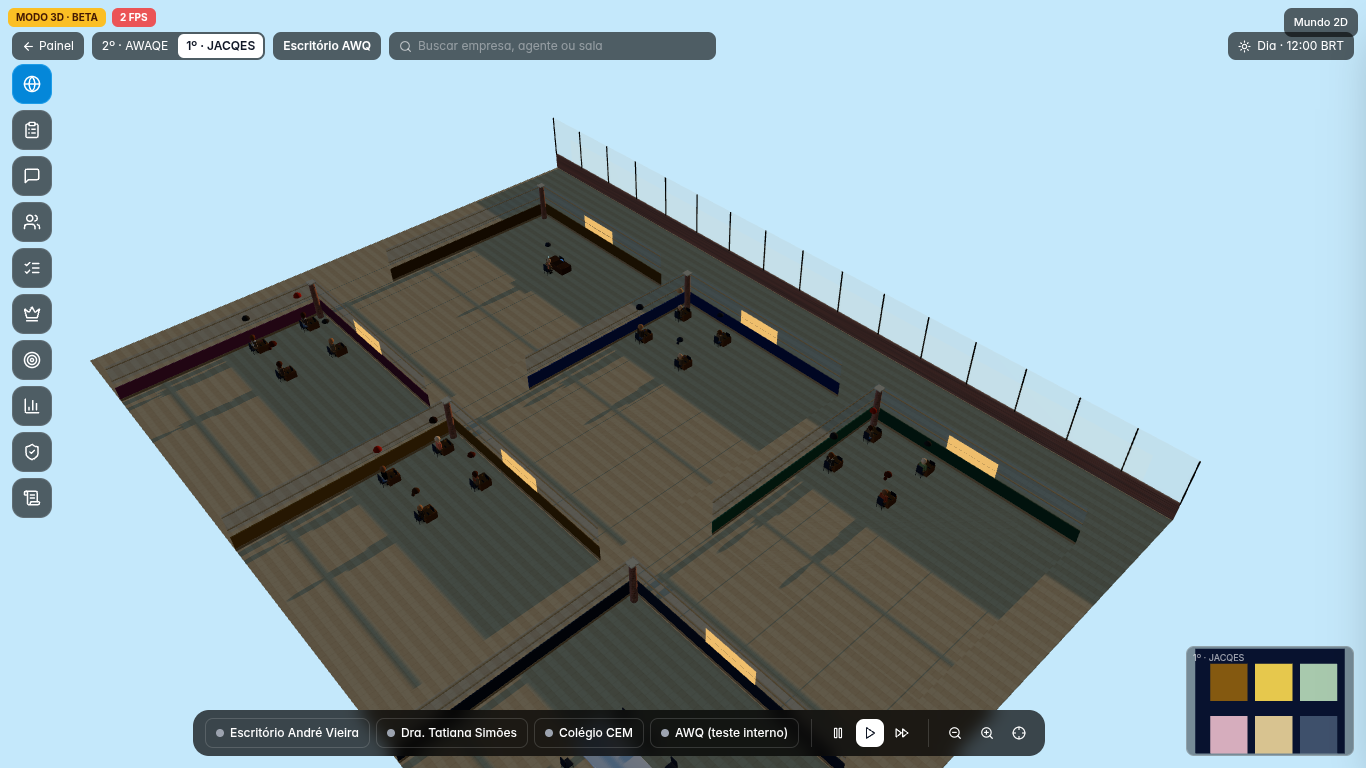
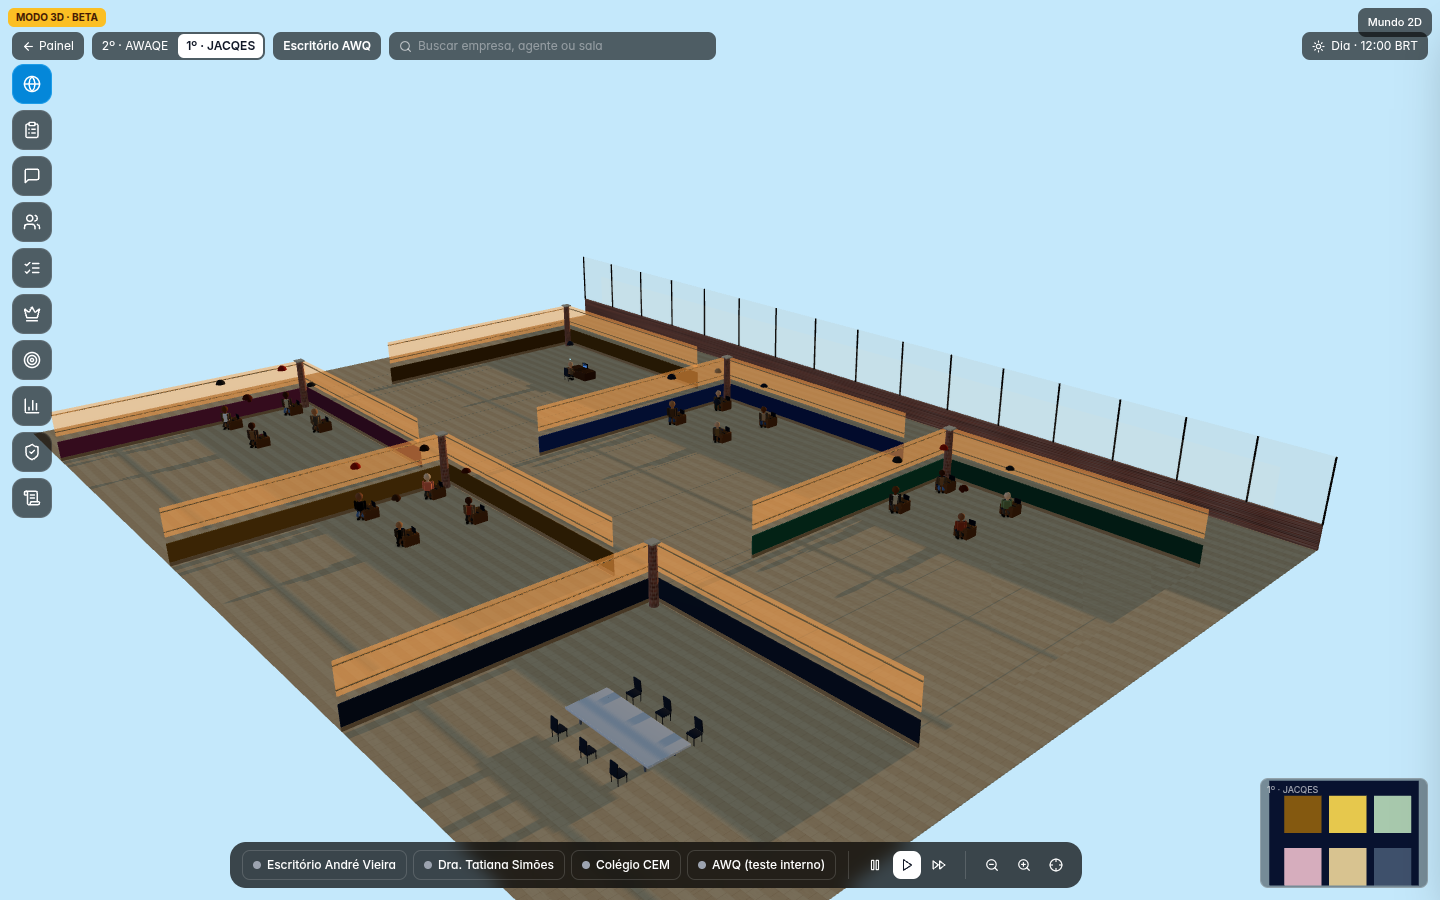
fix(office): dia mais claro, brilho no vidro e relógio de QA
De dia o ambiente passa de 0.20 para 0.38. A sala inativa acende o vidro em vez do painel laranja, e o ponto de luz fica perto do teto com intensidade 6. O override office-hora só vale no dev ou com ?qa=1.

diff --git a/components/office/OfficeGame3D.tsx b/components/office/OfficeGame3D.tsx
@@ -91,9 +91,17 @@ function horaBrasilia(): number {
   return h + m / 60;
 }
 
+/** A trava de QA só vale no dev ou com `?qa=1`. Em produção o relógio ignora o localStorage. */
+function qaHoraLiberada(): boolean {
+  if (typeof window === "undefined") return false;
+  if (process.env.NODE_ENV === "development") return true;
+  return new URLSearchParams(window.location.search).get("qa") === "1";
+}
+
 /** `localStorage.office-hora` (0–24) trava o relógio para a captura de QA. Sem a chave, vale Brasília. */
 function horaInicial(): number {
   if (typeof window === "undefined") return 12;
+  if (!qaHoraLiberada()) return horaBrasilia();
   const fixa = window.localStorage.getItem("office-hora");
   if (fixa == null || fixa === "") return horaBrasilia();
   const n = Number(fixa);
@@ -101,7 +109,7 @@ function horaInicial(): number {
 }
 
 function horaTravada(): boolean {
-  return typeof window !== "undefined" && !!window.localStorage.getItem("office-hora");
+  return qaHoraLiberada() && !!window.localStorage.getItem("office-hora");
 }
 
 // ── Cabelo por papel: mesma ideia de silhueta reconhecível do mundo 2D (cabeloDoPapel em
@@ -480,7 +488,7 @@ function Personagem({
 
 /** Parede construída ao longo do eixo local +x (de 0 a `comprimento`); quem usa decide a
  * orientação via rotação do grupo pai — mantém a sala em cutaway isométrico (sem teto). */
-function ParedeDetalhada({ comprimento, corAccent }: { comprimento: number; corAccent: string }) {
+function ParedeDetalhada({ comprimento, corAccent, brilho = false }: { comprimento: number; corAccent: string; brilho?: boolean }) {
   return (
     <group>
       <mesh position={[comprimento / 2, 0.07, 0]} castShadow receiveShadow>
@@ -493,7 +501,16 @@ function ParedeDetalhada({ comprimento, corAccent }: { comprimento: number; corA
       </mesh>
       <mesh position={[comprimento / 2, 1.66, 0]}>
         <boxGeometry args={[comprimento, 1.1, 0.025]} />
-        <meshPhysicalMaterial color="#bcdcff" transparent opacity={0.2} roughness={0.15} transmission={0.3} />
+        <meshPhysicalMaterial
+          color={brilho ? "#ffbf70" : "#bcdcff"}
+          emissive={brilho ? "#ff9a3c" : "#000000"}
+          emissiveIntensity={brilho ? 0.85 : 0}
+          transparent
+          opacity={brilho ? 0.55 : 0.2}
+          roughness={0.15}
+          transmission={brilho ? 0.12 : 0.3}
+          toneMapped={!brilho}
+        />
       </mesh>
       {[1.3, 2.05].map((y, i) => (
         <mesh key={i} position={[comprimento / 2, y, 0.012]} castShadow>
@@ -640,19 +657,14 @@ function Sala({
       )}
       {/* duas paredes de fundo, em camadas (rodapé + painel + vidro com travessas), cutaway —
           sem parede frontal nem teto, pra manter a leitura isométrica */}
-      {ativo ? (
-        <pointLight position={[w / 2, 1.75, d / 2]} color="#ffc48a" intensity={12} distance={12} decay={2} />
-      ) : (
-        <mesh position={[w / 2, 1.35, 0.06]}>
-          <planeGeometry args={[Math.min(w * 0.42, 2.6), 0.85]} />
-          <meshStandardMaterial color="#ffbf70" emissive="#ff9a3c" emissiveIntensity={0.9} />
-        </mesh>
+      {ativo && (
+        <pointLight position={[w / 2, 2.2, d / 2]} color="#ffc48a" intensity={6} distance={14} decay={2} />
       )}
       <group position={[0, 0, 0.02]}>
-        <ParedeDetalhada comprimento={w} corAccent={tema.paredeE} />
+        <ParedeDetalhada comprimento={w} corAccent={tema.paredeE} brilho={!ativo} />
       </group>
       <group position={[0.02, 0, 0]} rotation-y={-Math.PI / 2}>
-        <ParedeDetalhada comprimento={d} corAccent={tema.paredeD} />
+        <ParedeDetalhada comprimento={d} corAccent={tema.paredeD} brilho={!ativo} />
       </group>
       <Pilar posicao={PILAR_POS} />
       {detalhado && (
@@ -825,19 +837,14 @@ function SalaDaCasa({
           <meshStandardMaterial map={tapeteMap} color={accent} roughness={0.95} transparent opacity={0.9} />
         </mesh>
       )}
-      {detalhado ? (
-        <pointLight position={[w / 2, 1.75, d / 2]} color="#ffc48a" intensity={12} distance={12} decay={2} />
-      ) : (
-        <mesh position={[w / 2, 1.35, 0.06]}>
-          <planeGeometry args={[Math.min(w * 0.42, 2.6), 0.85]} />
-          <meshStandardMaterial color="#ffbf70" emissive="#ff9a3c" emissiveIntensity={0.9} />
-        </mesh>
+      {detalhado && (
+        <pointLight position={[w / 2, 2.2, d / 2]} color="#ffc48a" intensity={6} distance={14} decay={2} />
       )}
       <group position={[0, 0, 0.02]}>
-        <ParedeDetalhada comprimento={w} corAccent={accent} />
+        <ParedeDetalhada comprimento={w} corAccent={accent} brilho={!detalhado} />
       </group>
       <group position={[0.02, 0, 0]} rotation-y={-Math.PI / 2}>
-        <ParedeDetalhada comprimento={d} corAccent={accent} />
+        <ParedeDetalhada comprimento={d} corAccent={accent} brilho={!detalhado} />
       </group>
       <Pilar posicao={PILAR_POS} />
       {tipo === "diretoria" ? (
@@ -1023,7 +1030,8 @@ function Iluminacao({ hora }: { hora: number }) {
     <>
       <color attach="background" args={[ceuAtual.base]} />
       <hemisphereLight args={[ceuAtual.topo, "#c4a882", 0.08 + l * 0.18]} />
-      <ambientLight intensity={0.08 + l * 0.12} />
+      {/* De dia (luzDoDia = 1) fica em 0.38, acima de 0.35. À noite volta para 0.08. */}
+      <ambientLight intensity={0.08 + l * 0.30} />
       {/* Preenchimento frio do céu: de noite fica no piso, de dia sobe com a luz. */}
       <directionalLight position={[-16, 9, 14]} color="#9fc0ff" intensity={0.15 + l * 0.2} />
       {/* Sol baixo, cor #ffcf8a, entrando pela fachada. Intensidade segue luzDoDia (0 à noite). */}
